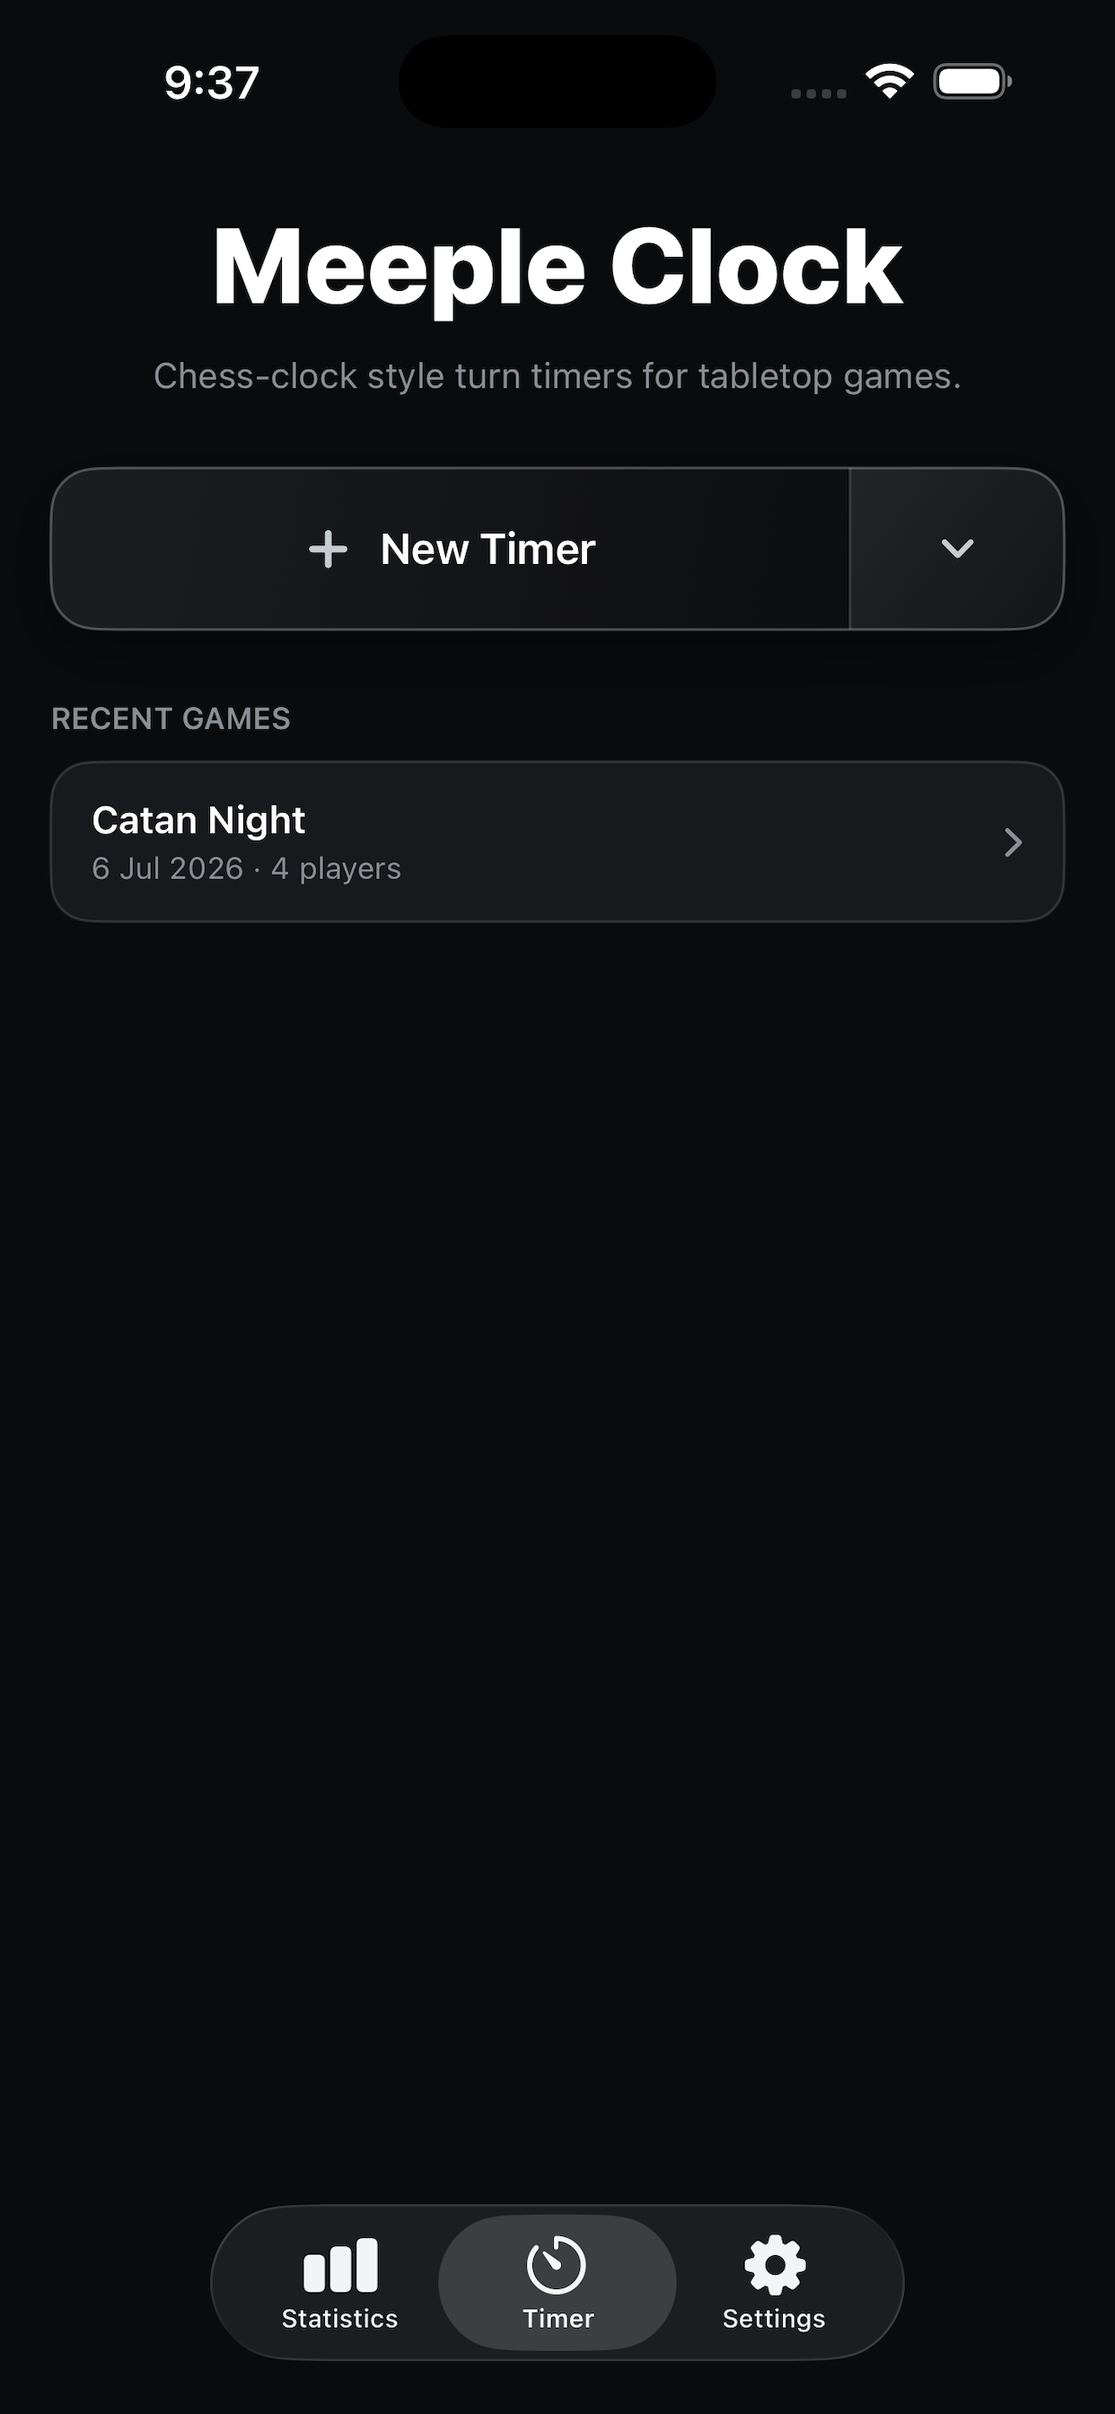
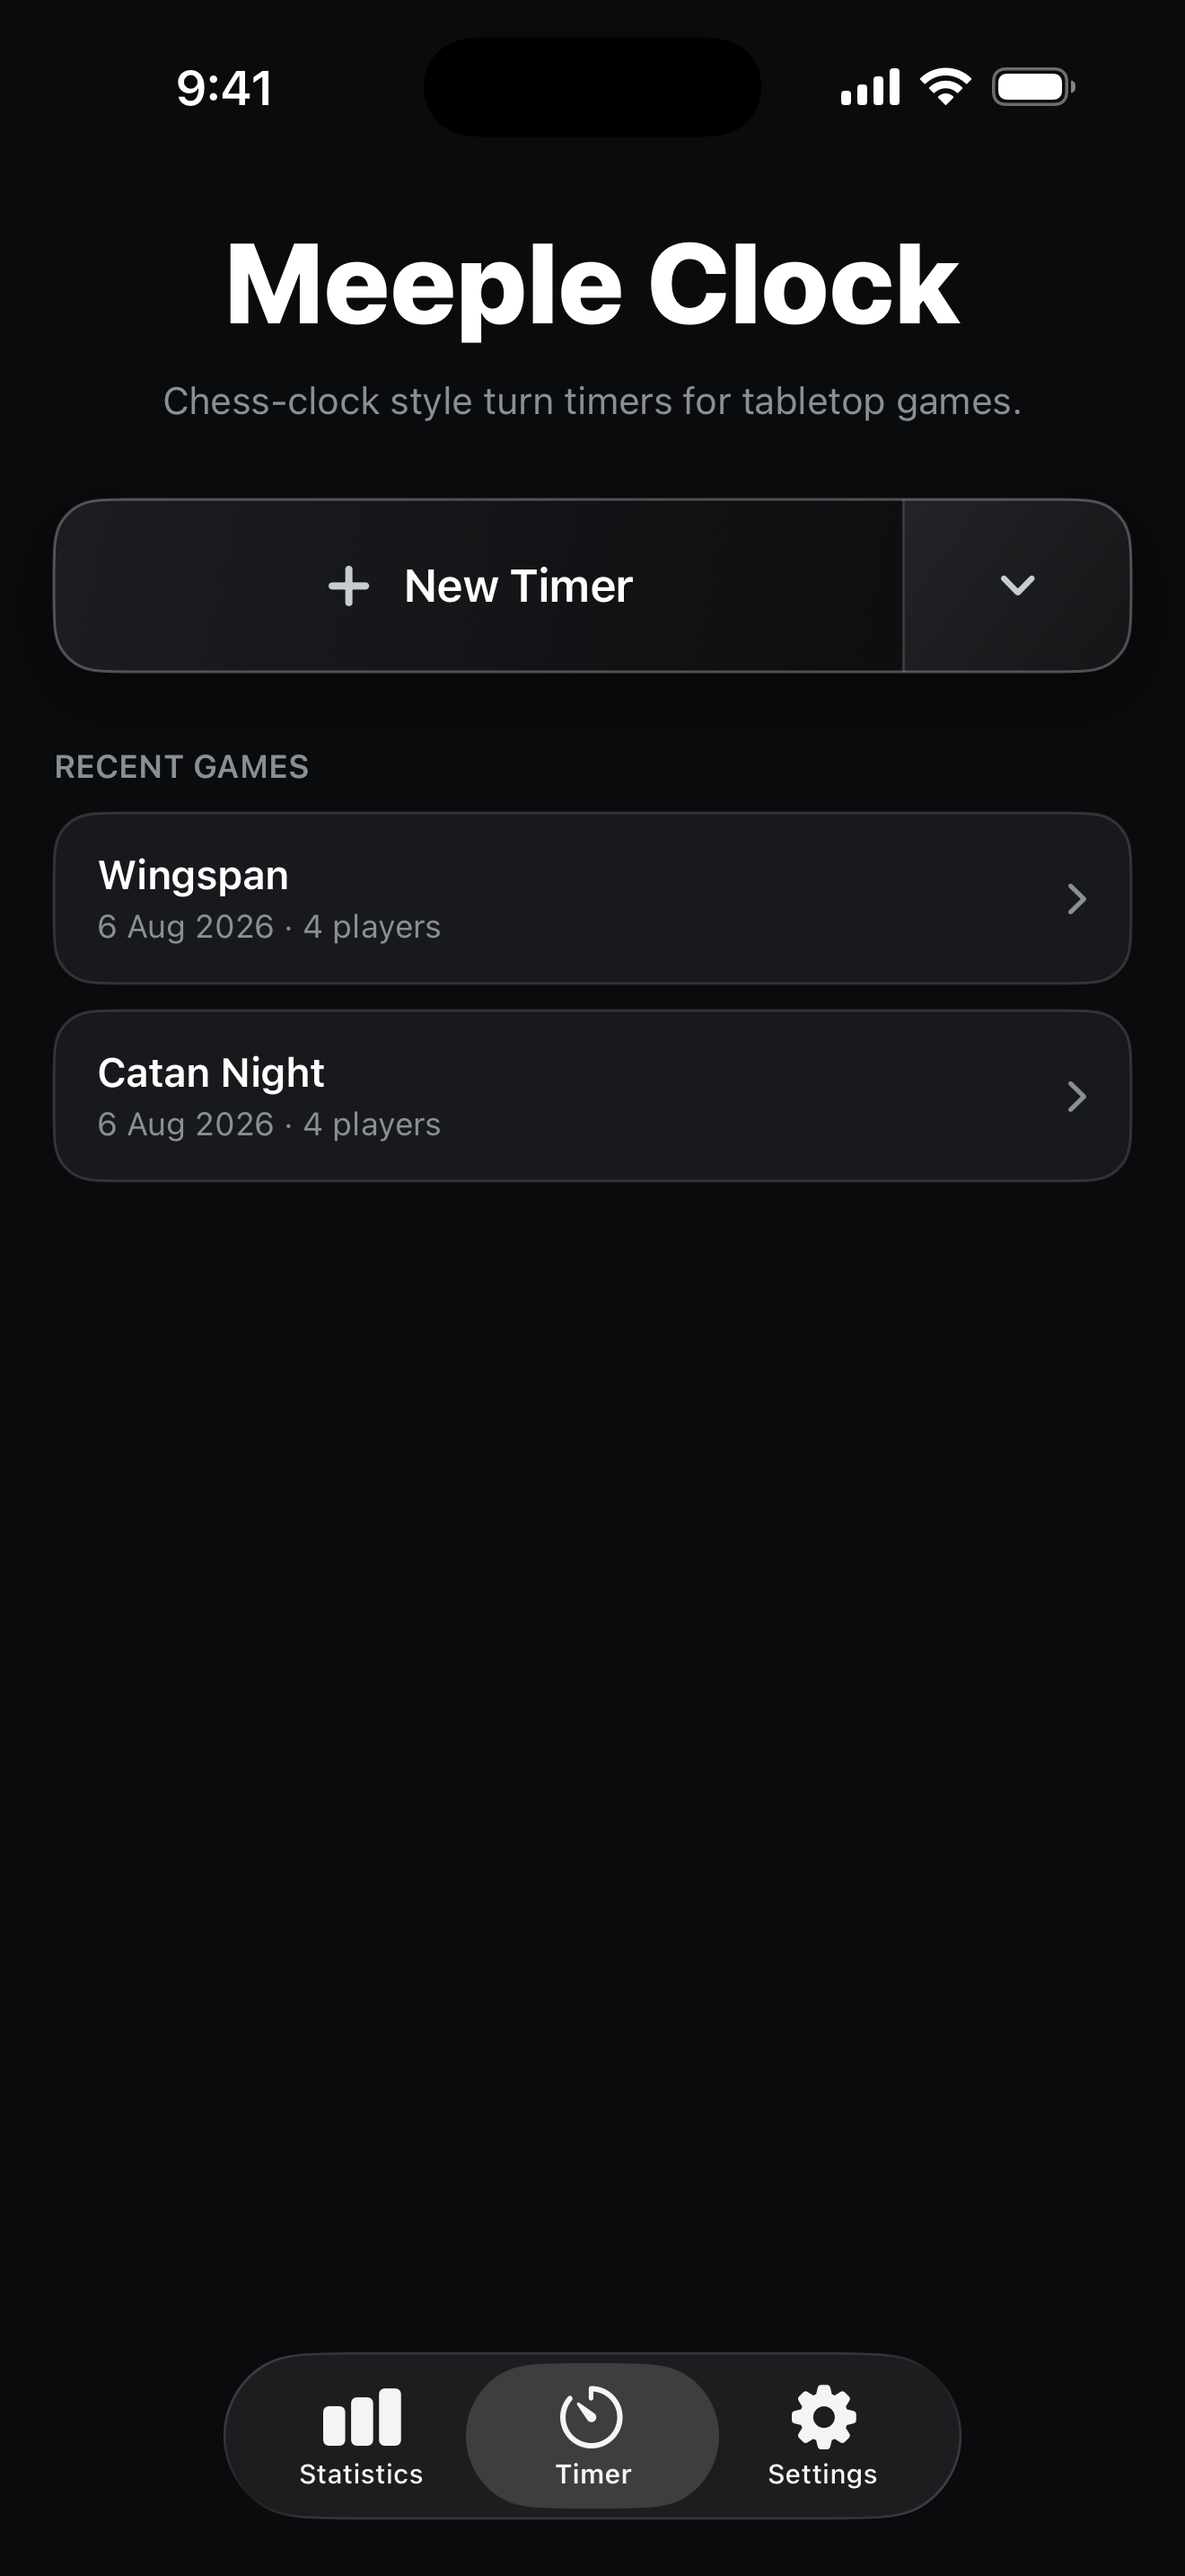
Regenerate App Store screenshots at 6.9" for 1.1
Every 1.0 screenshot showed the old blocky player figures, and the Player Setup
shot predated the mode picker entirely, so none of them could ship with this
release.

Recaptured all four from an iPhone 17 Pro Max simulator at 1320x2868 — the 6.9"
size App Store Connect wants as the primary iPhone set — with a clean 9:41
status bar. The previous set was 1242x2688, which is the 6.5" size, despite the
README claiming 6.9"; that claim is now true.

Adds a fifth shot, 05-countdown.png, showing a countdown game in progress with
all four clocks counting down. Player Setup now shows Countdown selected so the
Mode chips and the Total Time Per Player field are both visible, and the results
shot is from a countdown game so it shows the mode caption and each player's
remaining time.

diff --git a/Marketing/AppStoreConnect-1.1.md b/Marketing/AppStoreConnect-1.1.md
@@ -75,13 +75,20 @@ Replace all screenshots — every existing one shows the old blocky player figur
 Player Setup shot no longer matches the screen (it gains the Mode chips and, in Countdown, a
 Total Time Per Player field).
 
-**Status: not yet regenerated.** `Screenshots/` still holds the 1.0 captures.
+**Done.** Regenerated at **1320 × 2868 (6.9")** from an iPhone 17 Pro Max simulator — the size
+App Store Connect wants as the primary iPhone set (it scales down for smaller devices). All
+five are in [`Screenshots/`](Screenshots/), captured with a clean 9:41 status bar:
 
-To be regenerated at **1320 × 2868 (6.9")** from an iPhone 17 Pro Max simulator, which is the
-size App Store Connect wants as the primary iPhone set (it scales down for smaller devices).
+| File | Shows |
+|---|---|
+| `01-home.png` | Home with recent games |
+| `02-player-setup.png` | Player Setup with **Countdown** selected — the new Mode chips and Total Time Per Player field |
+| `03-active-game.png` | The radial live game, 4 players, stopwatch |
+| `04-results.png` | Countdown results with the mode caption and per-player time remaining |
+| `05-countdown.png` | A countdown game in progress, all four clocks counting down |
 
-Worth knowing: the 1.0 screenshots are 1242 × 2688, which is the **6.5"** size, even though
-`README.md` claimed 6.9". Both should be corrected together.
+Note the 1.0 screenshots were 1242 × 2688 — the **6.5"** size — even though `README.md`
+claimed 6.9". Both have now been corrected.
 
 ## 6. Export compliance
 

diff --git a/README.md b/README.md
@@ -36,16 +36,12 @@ design history.
 
 ## Screenshots
 
-| Home | Player setup | Live game | Results |
-|---|---|---|---|
-| ![Home screen](Marketing/Screenshots/01-home.png) | ![Player setup](Marketing/Screenshots/02-player-setup.png) | ![Active radial timer](Marketing/Screenshots/03-active-game.png) | ![Results with winner crown](Marketing/Screenshots/04-results.png) |
+| Home | Player setup | Live game | Results | Countdown |
+|---|---|---|---|---|
+| ![Home screen](Marketing/Screenshots/01-home.png) | ![Player setup with Countdown selected](Marketing/Screenshots/02-player-setup.png) | ![Active radial timer](Marketing/Screenshots/03-active-game.png) | ![Countdown results with winner crown](Marketing/Screenshots/04-results.png) | ![Countdown game in progress](Marketing/Screenshots/05-countdown.png) |
 
-Marketing assets and App Store submission docs live in [Marketing/](Marketing).
-
-> **Note:** the screenshots above are from 1.0 — they show the old player figures and a
-> Player Setup screen that predates the mode picker. They need regenerating at 1320x2868
-> (6.9") before the 1.1 submission. See
-> [Marketing/AppStoreConnect-1.1.md](Marketing/AppStoreConnect-1.1.md).
+App Store-ready marketing assets (6.9" screenshots at 1320x2868, app icon exports, and the
+submission checklist) live in [Marketing/](Marketing).
 
 ## Tech stack
 
